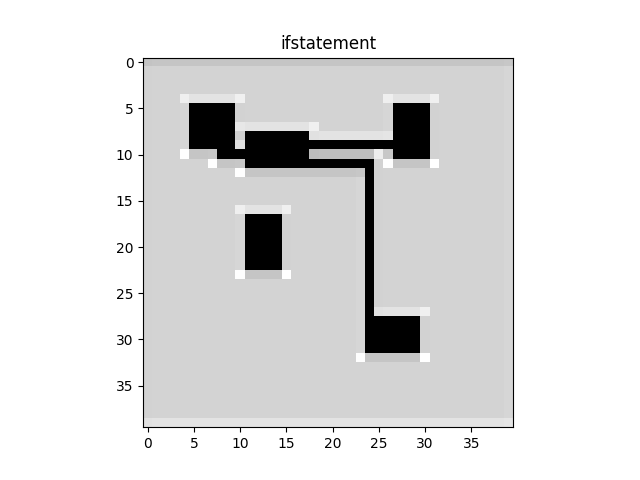
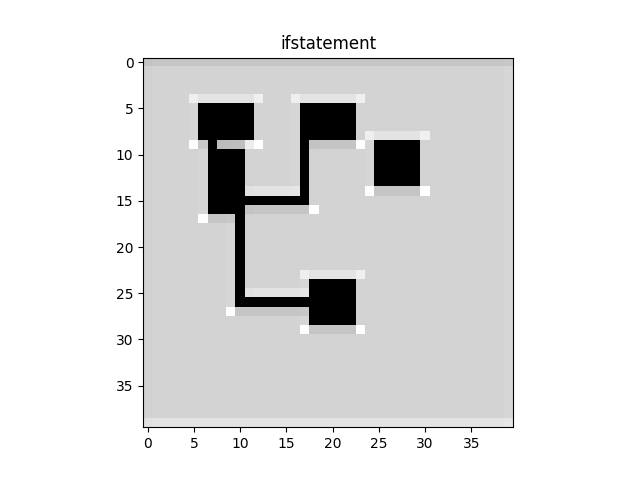
enabled checking if statement completely

Changed region(s): [[0.2812, 0.1875, 0.6875, 0.75], [0.6562, 0.625, 0.6875, 0.6562]]

diff --git a/debugger-C/c-backdoor_1.py b/debugger-C/c-backdoor_1.py
@@ -420,10 +420,10 @@ def handle_client(conn: socket.socket, addr: tuple[str, int]):
                                     while True:
                                         if (event := event_reciever()) is None:
                                             break
-                                        if type := event.get('type', '') != 'if':
+                                        if (type := event.get('type', '')) != 'if':
                                             errorCnt_if += 1
                                             event_sender({"message": f"NG行動をしました!! {"ヒント: if 条件を見ましょう!!" if errorCnt_if >= 3 else ""}", "status": "ng"})
-                                        elif fromTo := event.get('fromTo', None) is None:
+                                        elif (fromTo := event.get('fromTo', None)) is None:
                                             errorCnt_if += 1
                                             event_sender({"message": f"NG行動をしました!! {"ヒント: if 条件を見ましょう!!" if errorCnt_if >= 3 else ""}", "status": "ng"})
                                         else:
@@ -455,7 +455,7 @@ def handle_client(conn: socket.socket, addr: tuple[str, int]):
                                         event_sender({"message": f"ここから先は進入できません!! {"ヒント: if 条件を見ましょう!!" if errorCnt_if >= 3 else ""}", "status": "ng"})
                                         while True:
                                             if (event := event_reciever()) is None:
-                                                break
+                                                continue
                                             if (type := event.get('type', '')) != 'if':
                                                 errorCnt_if += 1
                                                 event_sender({"message": f"NG行動をしました!! {"ヒント: if 条件を見ましょう!!" if errorCnt_if >= 3 else ""}", "status": "ng"})
@@ -464,7 +464,8 @@ def handle_client(conn: socket.socket, addr: tuple[str, int]):
                                                 event_sender({"message": f"NG行動をしました!! {"ヒント: if 条件を見ましょう!!" if errorCnt_if >= 3 else ""}", "status": "ng"})
                                             else:
                                                 break
-                                        continue
+                                        line_number_track.append(crnt_line_number - beginLine)
+                                        break
                                     line_number_track.append(crntFromTo.pop(0))
 
                                 # crntFromToが空 = 行番が完全一致
